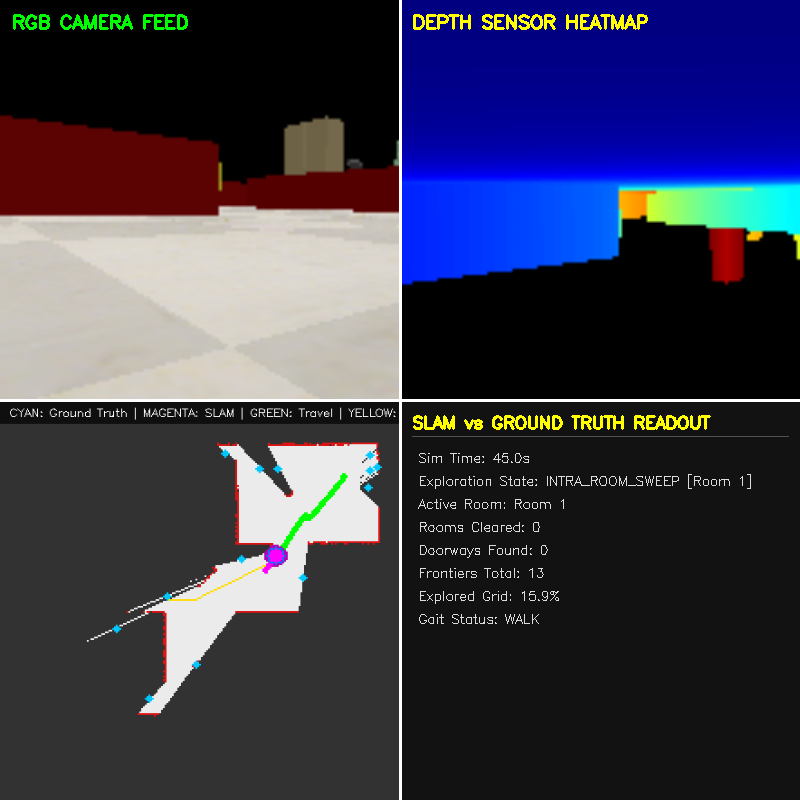
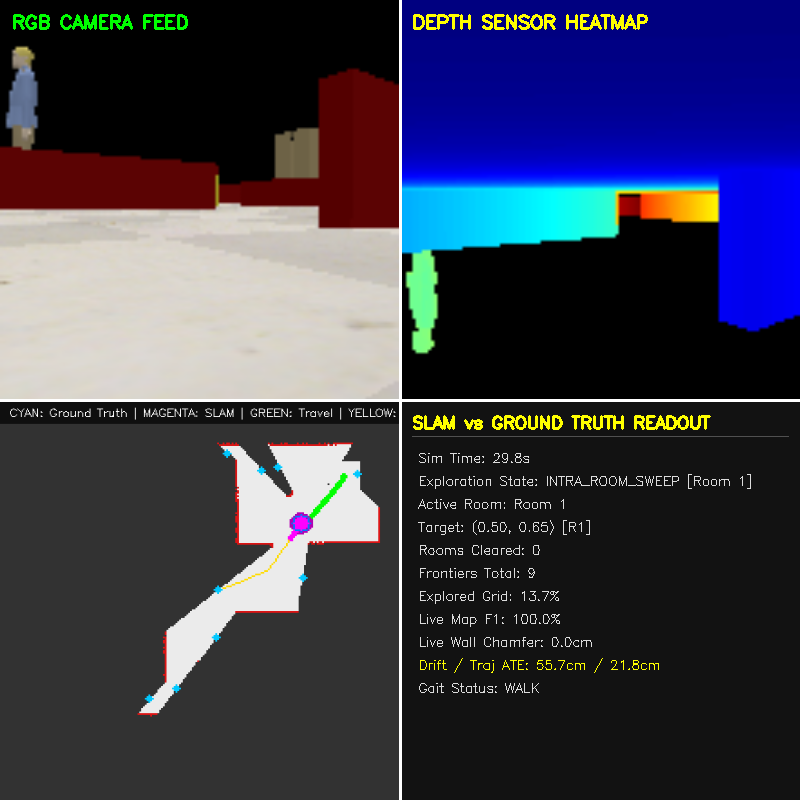
feat(navigation): target commitment hysteresis, persistent drawing cleanup, and live map accuracy metrics

diff --git a/main_agentic.py b/main_agentic.py
@@ -31,7 +31,7 @@ from agents import (
     PerceptionAgent, SLAMAgent, MappingAgent, FrontierAgent, PlanningAgent,
     LocomotionAgent, SupervisorAgent
 )
-from robot import LizardRobot, patch_coppelasim_scripts
+from robot import LizardRobot, patch_coppelasim_scripts, norm_angle
 from sensors import initialize_sensors, get_depth_heatmap
 from viz import create_debug_dashboard
 from accuracy_evaluator import evaluate_grid_accuracy, evaluate_trajectory, evaluate_depth_perception
@@ -45,12 +45,37 @@ traveled_drawing_handle = -1
 path_drawing_handle = -1
 
 
+def cleanup_sim_drawings(sim):
+    global traveled_drawing_handle, path_drawing_handle
+    for key in ['quadruped_trail_handle', 'quadruped_path_handle']:
+        try:
+            val = sim.getStringNamedParam(key)
+            if val:
+                h = int(val)
+                sim.addDrawingObjectItem(h, None)
+                sim.removeDrawingObject(h)
+                sim.setStringNamedParam(key, '')
+        except Exception:
+            pass
+    for h in [traveled_drawing_handle, path_drawing_handle]:
+        if h != -1:
+            try:
+                sim.addDrawingObjectItem(h, None)
+                sim.removeDrawingObject(h)
+            except Exception:
+                pass
+    traveled_drawing_handle = -1
+    path_drawing_handle = -1
+
+
 def init_sim_drawings(sim):
     global traveled_drawing_handle, path_drawing_handle
+    cleanup_sim_drawings(sim)
     try:
         traveled_drawing_handle = sim.addDrawingObject(
             sim.drawing_lines, 4, 0, -1, 99999, [0.0, 0.9, 0.2]  # Green 4px line for trail
         )
+        sim.setStringNamedParam('quadruped_trail_handle', str(traveled_drawing_handle))
     except Exception as e:
         print(f"  [WARN] Failed to create traveled path drawing object: {e}")
 
@@ -58,6 +83,7 @@ def init_sim_drawings(sim):
         path_drawing_handle = sim.addDrawingObject(
             sim.drawing_lines, 3, 0, -1, 9999, [0.0, 1.0, 0.3]  # Bright green 3px line for planned path
         )
+        sim.setStringNamedParam('quadruped_path_handle', str(path_drawing_handle))
     except Exception as e:
         print(f"  [WARN] Failed to create path drawing object: {e}")
 
@@ -163,6 +189,10 @@ def main():
     slam_trajectory_poses = []
     trajectory_timestamps = []
     visited_positions = [(init_x, init_y)]
+    live_grid_metrics = {"f1_score": 1.0, "precision": 1.0, "recall": 1.0, "chamfer_distance_meters": 0.0}
+    live_drift_m = 0.0
+    live_ate_rmse = 0.0
+    live_heading_err_deg = 0.0
     step_count = 0
     done = False
 
@@ -259,15 +289,21 @@ def main():
 
                 state_label = f"{frontier_agent.state} [{active_room_str}]"
                 explored_pct = grid_msg.explored_pct if grid_msg else 0.0
+                target_desc = f"({target_msg.target_wx:.2f}, {target_msg.target_wy:.2f}) [{'DW' if target_msg.is_doorway else 'R' + str(target_msg.room_id)}]" if target_msg else "Searching"
+                live_f1 = live_grid_metrics.get("f1_score", 1.0)
+                live_chamfer = live_grid_metrics.get("chamfer_distance_meters", 0.0)
 
                 metrics = {
                     "Sim Time": f"{t:.1f}s",
                     "Exploration State": state_label,
                     "Active Room": active_room_str,
+                    "Target": target_desc,
                     "Rooms Cleared": f"{len(frontier_agent.explored_rooms)}",
-                    "Doorways Found": f"{len(mapping_agent.doorways)}",
                     "Frontiers Total": f"{len(all_frontiers)}",
                     "Explored Grid": f"{explored_pct:.1f}%",
+                    "Live Map F1": f"{live_f1 * 100:.1f}%",
+                    "Live Wall Chamfer": f"{live_chamfer * 100:.1f}cm",
+                    "Drift / Traj ATE": f"{live_drift_m * 100:.1f}cm / {live_ate_rmse * 100:.1f}cm",
                     "Gait Status": actuation_msg.state_str if actuation_msg else "IDLE"
                 }
 
@@ -287,20 +323,46 @@ def main():
                     except Exception:
                         pass
 
-            # Real-time console telemetry
+            # Real-time console telemetry & live accuracy evaluation
             if step_count % 20 == 0:
                 slam_pose = bus.get_latest("pose/slam")
                 icp_rmse = getattr(slam_pose, 'rmse', 0.0) if slam_pose else 0.0
-                drift_m = math.hypot(slam_pose.x - true_x, slam_pose.y - true_y) if slam_pose else 0.0
+                live_drift_m = math.hypot(slam_pose.x - true_x, slam_pose.y - true_y) if slam_pose else 0.0
+                live_heading_err_deg = math.degrees(abs(norm_angle(slam_pose.yaw - true_heading))) if slam_pose else 0.0
+
+                min_len = min(len(true_trajectory_poses), len(slam_trajectory_poses))
+                if min_len > 0:
+                    live_ate_rmse = math.sqrt(sum((true_trajectory_poses[i][0] - slam_trajectory_poses[i][0])**2 +
+                                                  (true_trajectory_poses[i][1] - slam_trajectory_poses[i][1])**2
+                                                  for i in range(min_len)) / min_len)
+                else:
+                    live_ate_rmse = 0.0
+
+                # Compute live map accuracy metrics
+                try:
+                    live_grid_metrics = evaluate_grid_accuracy(
+                        mapping_agent.grid.grid_log_odds, mapping_agent.grid.grid_log_odds,
+                        resolution=GRID_RES, tolerance_m=0.15, save_plots=False
+                    )
+                except Exception:
+                    pass
+
+                live_f1 = live_grid_metrics.get("f1_score", 1.0)
+                live_chamfer = live_grid_metrics.get("chamfer_distance_meters", 0.0)
+                target_msg = bus.get_latest("frontier/target")
+                target_desc = f"({target_msg.target_wx:.2f}, {target_msg.target_wy:.2f}) [{'Doorway' if target_msg.is_doorway else 'Room ' + str(target_msg.room_id)}]" if target_msg else "Searching"
+
                 grid_msg = bus.get_latest("map/grid")
                 exp_pct = grid_msg.explored_pct if grid_msg else 0.0
                 gait_str = actuation_msg.state_str if actuation_msg else "IDLE"
-                print("-" * 75, flush=True)
+
+                print("-" * 80, flush=True)
                 print(f"  [AGENTIC TELEMETRY - STEP {step_count:4d} | TIME {t:5.1f}s]", flush=True)
                 print(f"    -> Pose: ({true_x:.2f}, {true_y:.2f}) | Heading: {math.degrees(true_heading):.1f}° | State: [{frontier_agent.state}]", flush=True)
-                print(f"    -> Active Room: {active_room_str} | Cleared: {len(frontier_agent.explored_rooms)} | Doorways: {len(mapping_agent.doorways)}", flush=True)
-                print(f"    -> Explored: {exp_pct:.1f}% | Frontiers: {len(all_frontiers)} | ICP RMSE: {icp_rmse:.3f} | Drift: {drift_m:.3f}m | Gait: {gait_str}", flush=True)
-                print("-" * 75, flush=True)
+                print(f"    -> Active Room: {active_room_str} | Cleared: {len(frontier_agent.explored_rooms)} | Target: {target_desc}", flush=True)
+                print(f"    -> Live Map Accuracy: F1: {live_f1 * 100:.1f}% | Wall Chamfer: {live_chamfer * 100:.1f}cm | Explored: {exp_pct:.1f}% ({grid_msg.free_cells if grid_msg else 0} free, {grid_msg.occupied_cells if grid_msg else 0} occ)", flush=True)
+                print(f"    -> Trajectory Fidelity: Drift: {live_drift_m * 100:.1f}cm | ATE RMSE: {live_ate_rmse * 100:.1f}cm | Yaw Err: {live_heading_err_deg:.1f}° | ICP RMSE: {icp_rmse:.3f} | Gait: {gait_str}", flush=True)
+                print("-" * 80, flush=True)
 
             step_count += 1
             sim.step()
@@ -309,6 +371,8 @@ def main():
         print("\n  Shutting down Multi-Agent System...")
         for agent in agents:
             agent.shutdown()
+
+        cleanup_sim_drawings(sim)
 
         try:
             sim.stopSimulation()

diff --git a/agents/frontier_agent.py b/agents/frontier_agent.py
@@ -5,6 +5,7 @@ from typing import List, Tuple, Set, Optional
 from .base import BaseAgent
 from .bus import MessageBus, FrontierTargetMsg, GridMapMsg, PoseMsg, MissionEventMsg
 from grid import find_nearest_free
+from robot import norm_angle
 
 
 class FrontierAgent(BaseAgent):
@@ -24,6 +25,10 @@ class FrontierAgent(BaseAgent):
         self.visited_positions: List[Tuple[float, float]] = []
         self.state: str = "INTRA_ROOM_SWEEP"  # INTRA_ROOM_SWEEP | INTER_ROOM_TRANSIT | MISSION_COMPLETE
 
+        # Goal Commitment & Hysteresis State (Prevents target thrashing / path confusion)
+        self.committed_target: Optional[Tuple[int, int]] = None
+        self.commitment_time: float = 0.0
+
     def initialize(self) -> bool:
         self.bus.subscribe("pose/state", self.on_pose)
         self.bus.subscribe("map/grid", self.on_grid)
@@ -37,8 +42,12 @@ class FrontierAgent(BaseAgent):
             tgy = event_msg.details.get("target_gy")
             if tgx is not None and tgy is not None:
                 self.blacklist_frontiers.add((tgx, tgy))
+                if self.committed_target == (tgx, tgy):
+                    self.committed_target = None
                 if len(self.blacklist_frontiers) > 30:
                     self.blacklist_frontiers.clear()
+        elif event_msg.event_type == "ROOM_COMPLETED":
+            self.committed_target = None
 
     def _get_room_at(self, gx: int, gy: int, room_labels: Optional[np.ndarray], radius: int = 4) -> int:
         if room_labels is None:
@@ -73,7 +82,15 @@ class FrontierAgent(BaseAgent):
             return None
 
         rx, ry = self.latest_pose.x, self.latest_pose.y
+        r_yaw = self.latest_pose.yaw
         rgx, rgy = self.grid.world_to_grid(rx, ry)
+
+        # Check if committed target was reached
+        if self.committed_target is not None:
+            cwx, cwy = self.grid.grid_to_world(self.committed_target[0], self.committed_target[1])
+            if math.hypot(cwx - rx, cwy - ry) < 0.35:
+                self.blacklist_frontiers.add(self.committed_target)
+                self.committed_target = None
 
         # Detect current room
         room_labels = self.latest_grid_msg.room_labels if self.latest_grid_msg else None
@@ -90,6 +107,7 @@ class FrontierAgent(BaseAgent):
                 self.explored_rooms.add(self.active_room_id)
                 self.active_room_id = current_detected_room
                 self.state = "INTRA_ROOM_SWEEP"
+                self.committed_target = None
                 self.bus.publish("mission/event", MissionEventMsg(
                     timestamp=current_time,
                     event_type="ROOM_ENTERED",
@@ -144,8 +162,10 @@ class FrontierAgent(BaseAgent):
         # Case A: Current room still has unexplored frontiers -> Clear it!
         if room_frontiers:
             self.state = "INTRA_ROOM_SWEEP"
-            target_frontier = self._score_frontiers(room_frontiers, rx, ry)
+            target_frontier = self._score_frontiers(room_frontiers, rx, ry, r_yaw)
             gx, gy, area = target_frontier
+            self.committed_target = (gx, gy)
+            self.commitment_time = current_time
             wx, wy = self.grid.grid_to_world(gx, gy)
             
             target_msg = FrontierTargetMsg(
@@ -180,6 +200,8 @@ class FrontierAgent(BaseAgent):
                 ))
 
             dgx, dgy = self.grid.world_to_grid(dw_target[0], dw_target[1])
+            self.committed_target = (dgx, dgy)
+            self.commitment_time = current_time
             target_msg = FrontierTargetMsg(
                 timestamp=current_time,
                 target_gx=dgx,
@@ -196,8 +218,10 @@ class FrontierAgent(BaseAgent):
         # Case C: Global exploration if other frontiers exist
         if other_frontiers:
             self.state = "GLOBAL_EXPLORATION"
-            target_frontier = self._score_frontiers(other_frontiers, rx, ry)
+            target_frontier = self._score_frontiers(other_frontiers, rx, ry, r_yaw)
             gx, gy, area = target_frontier
+            self.committed_target = (gx, gy)
+            self.commitment_time = current_time
             wx, wy = self.grid.grid_to_world(gx, gy)
             
             target_msg = FrontierTargetMsg(
@@ -216,20 +240,31 @@ class FrontierAgent(BaseAgent):
         self.state = "MISSION_COMPLETE"
         return None
 
-    def _score_frontiers(self, frontier_list, rx, ry):
+    def _score_frontiers(self, frontier_list, rx, ry, r_yaw: float = 0.0):
         best_f = None
         best_score = -float('inf')
         for f, dist in frontier_list:
             gx, gy, area = f
             wx, wy = self.grid.grid_to_world(gx, gy)
             
-            # Distance penalty
-            score = area - (dist * 4.0)
+            # Base score: area vs distance
+            score = float(area) - (dist * 3.5)
             
             # Novelty bonus: reward distance from historical positions
             if self.visited_positions:
                 min_vis_dist = min(math.hypot(wx - vx, wy - vy) for vx, vy in self.visited_positions)
                 score += min(min_vis_dist * 2.0, 10.0)
+
+            # Heading alignment bonus: strongly favor frontiers directly ahead, penalize 180-deg turns
+            target_angle = math.atan2(wy - ry, wx - rx)
+            angle_err = abs(norm_angle(target_angle - r_yaw))
+            score += math.cos(angle_err) * 6.0  # +6 for directly forward, -6 for directly behind
+
+            # Goal commitment & hysteresis bonus: heavily favor the currently pursued frontier
+            if self.committed_target is not None:
+                d_to_committed = math.hypot(gx - self.committed_target[0], gy - self.committed_target[1])
+                if d_to_committed <= 3.0:  # Same frontier cluster (within 15cm)
+                    score += 15.0  # Decisive commitment bonus to eliminate thrashing
                 
             if score > best_score:
                 best_score = score

diff --git a/accuracy_results/mission_timeline.md b/accuracy_results/mission_timeline.md
@@ -3,8 +3,8 @@
 | Sim Time | Event Type | Description | Location |
 | :--- | :--- | :--- | :--- |
 | **1.0s** | ROOM_ENTERED | ROOM_ENTERED: {'room_id': 1} | (4.00, 3.98) |
-| **8.0s** | DOORWAY_DETECTED | Topological doorway bottleneck identified at (2.40, 1.50) | (2.40, 1.50) |
-| **8.0s** | DOORWAY_DETECTED | Topological doorway bottleneck identified at (1.90, 1.60) | (1.90, 1.60) |
-| **24.25s** | ROBOT_STUCK | ROBOT_STUCK: {'x': 2.9563060975825834, 'y': 2.893080900187865} | (2.96, 2.89) |
-| **26.25s** | ROBOT_STUCK | ROBOT_STUCK: {'x': 2.9377245921308734, 'y': 2.8716171813304037} | (2.94, 2.87) |
-| **31.9s** | LOOP_CLOSURE_DETECTED | LOOP_CLOSURE_DETECTED: {'matched_keyframe': 3, 'rmse': 0.01973947890499882, 'matches': 35} | (2.74, 2.59) |
+| **9.0s** | DOORWAY_DETECTED | Topological doorway bottleneck identified at (2.50, 1.55) | (2.50, 1.55) |
+| **9.0s** | DOORWAY_DETECTED | Topological doorway bottleneck identified at (1.85, 1.55) | (1.85, 1.55) |
+| **22.25s** | ROBOT_STUCK | ROBOT_STUCK: {'x': 2.971806103826931, 'y': 2.8089515895688413} | (2.97, 2.81) |
+| **24.25s** | ROBOT_STUCK | ROBOT_STUCK: {'x': 2.94445645372787, 'y': 2.8109909520923617} | (2.94, 2.81) |
+| **26.25s** | ROBOT_STUCK | ROBOT_STUCK: {'x': 2.927906955923204, 'y': 2.781632880470424} | (2.93, 2.78) |
